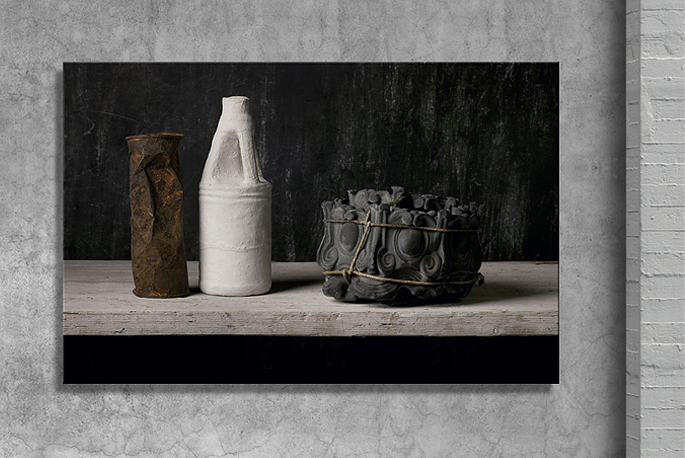
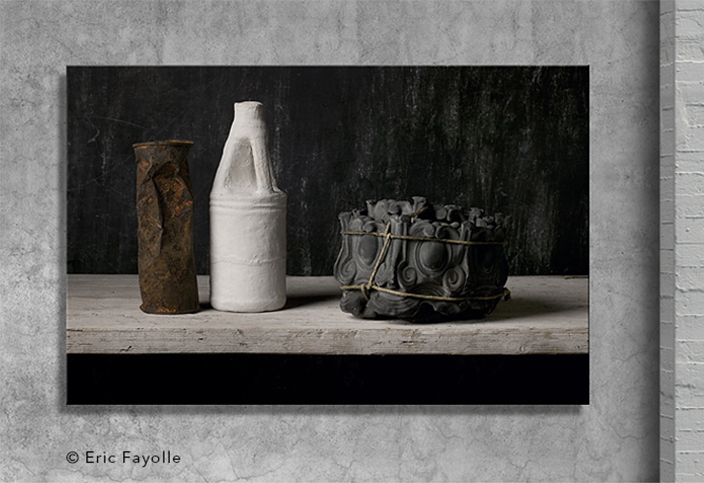
version client 18 Juin

diff --git a/www/assets/css/style.css b/www/assets/css/style.css
@@ -7372,6 +7372,7 @@ a.arrow-down:hover {
 #prestation.finitions section:first-child .left img {
   display: block;
   margin: 50px auto;
+  max-width: 100%;
 }
 #prestation.finitions section:first-child .right {
   padding-right: 0 ;
@@ -7387,7 +7388,7 @@ a.arrow-down:hover {
 }
 #prestation.finitions section:nth-child(2) > div {
   padding: 0;
-  max-height: 458px;
+  max-height: 490px;
   overflow: hidden;
 }
 #prestation.finitions section:nth-child(2) > div:first-child {
@@ -7398,14 +7399,19 @@ a.arrow-down:hover {
 }
 #prestation.finitions section:nth-child(2) > div img {
   width: 100%;
+  min-height: 100%;
 }
 #prestation.finitions section:nth-child(2) > div.right {
   position: relative;
+}
+#prestation.finitions section:nth-child(2) > div.right img {
+  float: right;
 }
 #prestation.finitions section:nth-child(2) > div.right .copyright {
   color: black;
   top: 420px;
   right: 563px;
+  display: none;
 }
 #prestation.finitions section:nth-child(3) > div {
   padding-top: 90px;
@@ -7493,6 +7499,7 @@ a.arrow-down:hover {
 }
 #prestation.finitions section p {
   margin-bottom: 40px;
+  text-align: justify !important;
 }
 #prestation.finitions section h3 {
   margin-bottom: 50px;
@@ -7548,9 +7555,11 @@ a.arrow-down:hover {
     text-align: left;
   }
 }
+#prestation.tirages .arrow-down {
+  right: 125px;
+}
 #prestation.tirages .landing h1 {
-  top: 340px;
-  bottom: auto;
+  bottom: 65px;
 }
 #prestation.tirages .landing .background {
   background: url('../images/landing-tirages.jpg') no-repeat center center;
@@ -7664,6 +7673,7 @@ a.arrow-down:hover {
   line-height: 1em;
 }
 #prestation.tirages .left p {
+  text-align: justify !important;
   margin-top: 20px;
 }
 #prestation.tirages .left .bold {
@@ -7844,7 +7854,7 @@ a.arrow-down:hover {
   padding-top: 240px;
 }
 #prestation.scan .main-content .left p {
-  text-align: left;
+  text-align: justify;
   margin-top: 0;
 }
 #prestation.scan .main-content .left p.bold {

diff --git a/www/assets/less/prestations.less b/www/assets/less/prestations.less
@@ -299,7 +299,8 @@ a.arrow-down {
 				padding-top: 200px;
 				img {
 					display: block;
-					margin: 50px auto; 
+					margin: 50px auto;
+					max-width: 100%; 
 				}
 			} 
 			.right {
@@ -316,7 +317,7 @@ a.arrow-down {
 			float: left;
 			> div {
 				padding:0;
-				max-height: 458px;
+				max-height: 490px;
 				overflow: hidden;
 				&:first-child {
 					padding-right: 5px;
@@ -326,13 +327,16 @@ a.arrow-down {
 				}
 				img {
 					width: 100%;
+					min-height: 100%;
 				}
 				&.right {
 					position: relative;
+					img {float: right;}
 					.copyright {
 						color: black;
 						top: 420px;
 						right: 563px;
+						display: none;
 					}
 				}
 			}
@@ -428,6 +432,7 @@ a.arrow-down {
 
 		p {
 			margin-bottom: 40px;
+			text-align: justify !important;
 		}
 		h3 {
 			margin-bottom: 50px;
@@ -494,10 +499,12 @@ a.arrow-down {
 	}
 }
 #prestation.tirages {
+	.arrow-down {
+		right: 125px;
+	}
 	.landing {
-		h1 {
-			top: 340px;
-			bottom: auto;
+		h1 {	
+			bottom: 65px;
 		}
 		.background {
 			background: url('../images/landing-tirages.jpg') no-repeat center center;
@@ -617,6 +624,7 @@ a.arrow-down {
 			}
 		}
 		p {
+			text-align: justify !important;
 			margin-top: 20px;
 		}
 		.bold {
@@ -759,7 +767,7 @@ a.arrow-down {
 		.left {
 			padding-top: 240px;
 			p {
-				text-align: left;
+				text-align: justify;
 				margin-top: 0;
 
 			}

diff --git a/www/site/templates/default.php b/www/site/templates/default.php
@@ -9,26 +9,11 @@
 	    <div class="center-block">
 	    	
 	    	<br /><br /><br /><br /><br />
-	    	<h2 class="text-center"><?php echo $page->title(); ?></h2>
+	    	<h2 class="text-center" style="letter-spacing:4px;"><?php echo $page->title(); ?></h2>
 	    </div>
 	</div>
 
-	<!--[if lt IE 7]>
-      <p class="browsehappy">You are using an <strong>outdated</strong> browser. Please <a href="http://browsehappy.com/">upgrade your browser</a> to improve your experience.</p>
-    <![endif]-->
 
-
-    <!-- build:js scripts/main.js -->
-    <script src="<?php echo url ('assets/scripts/vendor/jquery/jquery.js'); ?>"></script>
-    <script src="<?php echo url('assets/scripts/vendor/gsap/src/minified/jquery.gsap.min.js'); ?>"></script>
-    <script src="<?php echo url('assets/scripts/vendor/gsap/src/minified/TweenMax.min.js'); ?>"></script>
-    <script src="<?php echo url('assets/scripts/vendor/gsap/src/minified/plugins/ScrollToPlugin.min.js'); ?>"></script>
-    <script src="<?php echo url('assets/scripts/vendor/gsap/src/minified/plugins/CSSRulePlugin.min.js'); ?>"></script>
-    <script src="<?php echo url('assets/scripts/vendor/ScrollMagic/scrollmagic/uncompressed/ScrollMagic.js'); ?>"></script>
-    <script src="<?php echo url('assets/scripts/vendor/ScrollMagic/scrollmagic/uncompressed/plugins/jquery.ScrollMagic.js'); ?>"></script>
-    <script src="<?php echo url('assets/scripts/vendor/ScrollMagic/scrollmagic/uncompressed/plugins/animation.gsap.js'); ?>"></script>
-    <script src="<?php echo url('assets/scripts/vendor/ScrollMagic/scrollmagic/uncompressed/plugins/debug.addIndicators.js'); ?>"></script>
-    <!-- <script src="scripts/chromeSmoothScroll.js"></script>-->
-    <script src="<?php echo url('assets/scripts/main.js'); ?>"></script>
-    <script src="<?php echo url('assets/scripts/prestation.js'); ?>"></script>
+    <?php snippet('scripts') ?>
     <script src="<?php echo url('assets/scripts/hello.js'); ?>"></script>
+    <script src="<?php echo url('assets/scripts/home.js'); ?>"></script>

diff --git a/www/site/templates/tirages.php b/www/site/templates/tirages.php
@@ -122,11 +122,18 @@
           offset: 1
       }).setTween(TweenMax.to('.main-content div:nth-child(2) .copyright', 0.3, {opacity:1}));
       // .addIndicators({name: 'Position'})
+      var headlineFix = new ScrollMagic.Scene({
+          triggerElement: '.main-content',
+          triggerHook: 'onEnter',
+          offset: 1,
+          duration: '25%'
+      }).setTween(TweenMax.to('.landing h1', 0.5, {opacity:0,ease:Power2.easeOut}));
+      // .addIndicators({name: 'Position'})
 
       prestaController.addScene([
         headerPresta,
         landingPresta,
-        headlinePresta,
+        headlineFix,
         footerTirages,
         copyrightFix
       ]);

diff --git a/www/site/templates/scan.php b/www/site/templates/scan.php
@@ -21,7 +21,7 @@
     <div class="main-content container-fluid fullH" >
       <div class="col-xs-12 col-md-6 left">
         <h3>Scan</h3>
-        <h4>L'atelier vous propose la numerisation de vos originaux <br/>
+        <h4>L'atelier vous propose la numérisation de vos originaux <br/>
         a des fins artistiques ou de reproduction</h4>
         <p class="bold">Nous disposons pour cela de plusieurs types de scanner :</p>
         <p><span>Imacon Flextight</span> pour vos originaux allant du 24 x 36 au 13 x 18 cm<br/>

diff --git a/www/site/templates/traitement.php b/www/site/templates/traitement.php
@@ -21,7 +21,7 @@
     <div class="main-content container-fluid fullH">
         <div class="col-xs-12 col-md-6 left">
           <h3>Traitement numerique</h3>
-          <h4>Nous effectuons de multiples operations </h4>
+          <h4>Nous effectuons de multiples opérations </h4>
           <h4>afin d’optimiser vos fichiers et obtenir le meilleur de vos images</h4>
           <p class="bold">Développement de vos fichiers Raw<br/>
           Mise au point de la chromie et de la densité, nettoyage, et recadrage<br/>

diff --git a/www/site/accounts/admin.php b/www/site/accounts/admin.php
@@ -6,10 +6,8 @@ password: >
   $2a$10$qZ.C38Qnq2T8jOdZoadhaOd2uYODbnMWwYoj5ywRYnur/LYtBJlIO
 language: fr
 role: admin
-token: 6afc8fb85a8af4a1c03ffcd7214682bf68da00fe
+token: 79063ff83379a24e7a148c4077938c271dc0bfa5
 history:
-  - news/stephan-quatre
-  - news/stephan-trois
-  - news/stephan-deux
+  - prestations
   - news/stephan-zaubitzer
   - news
